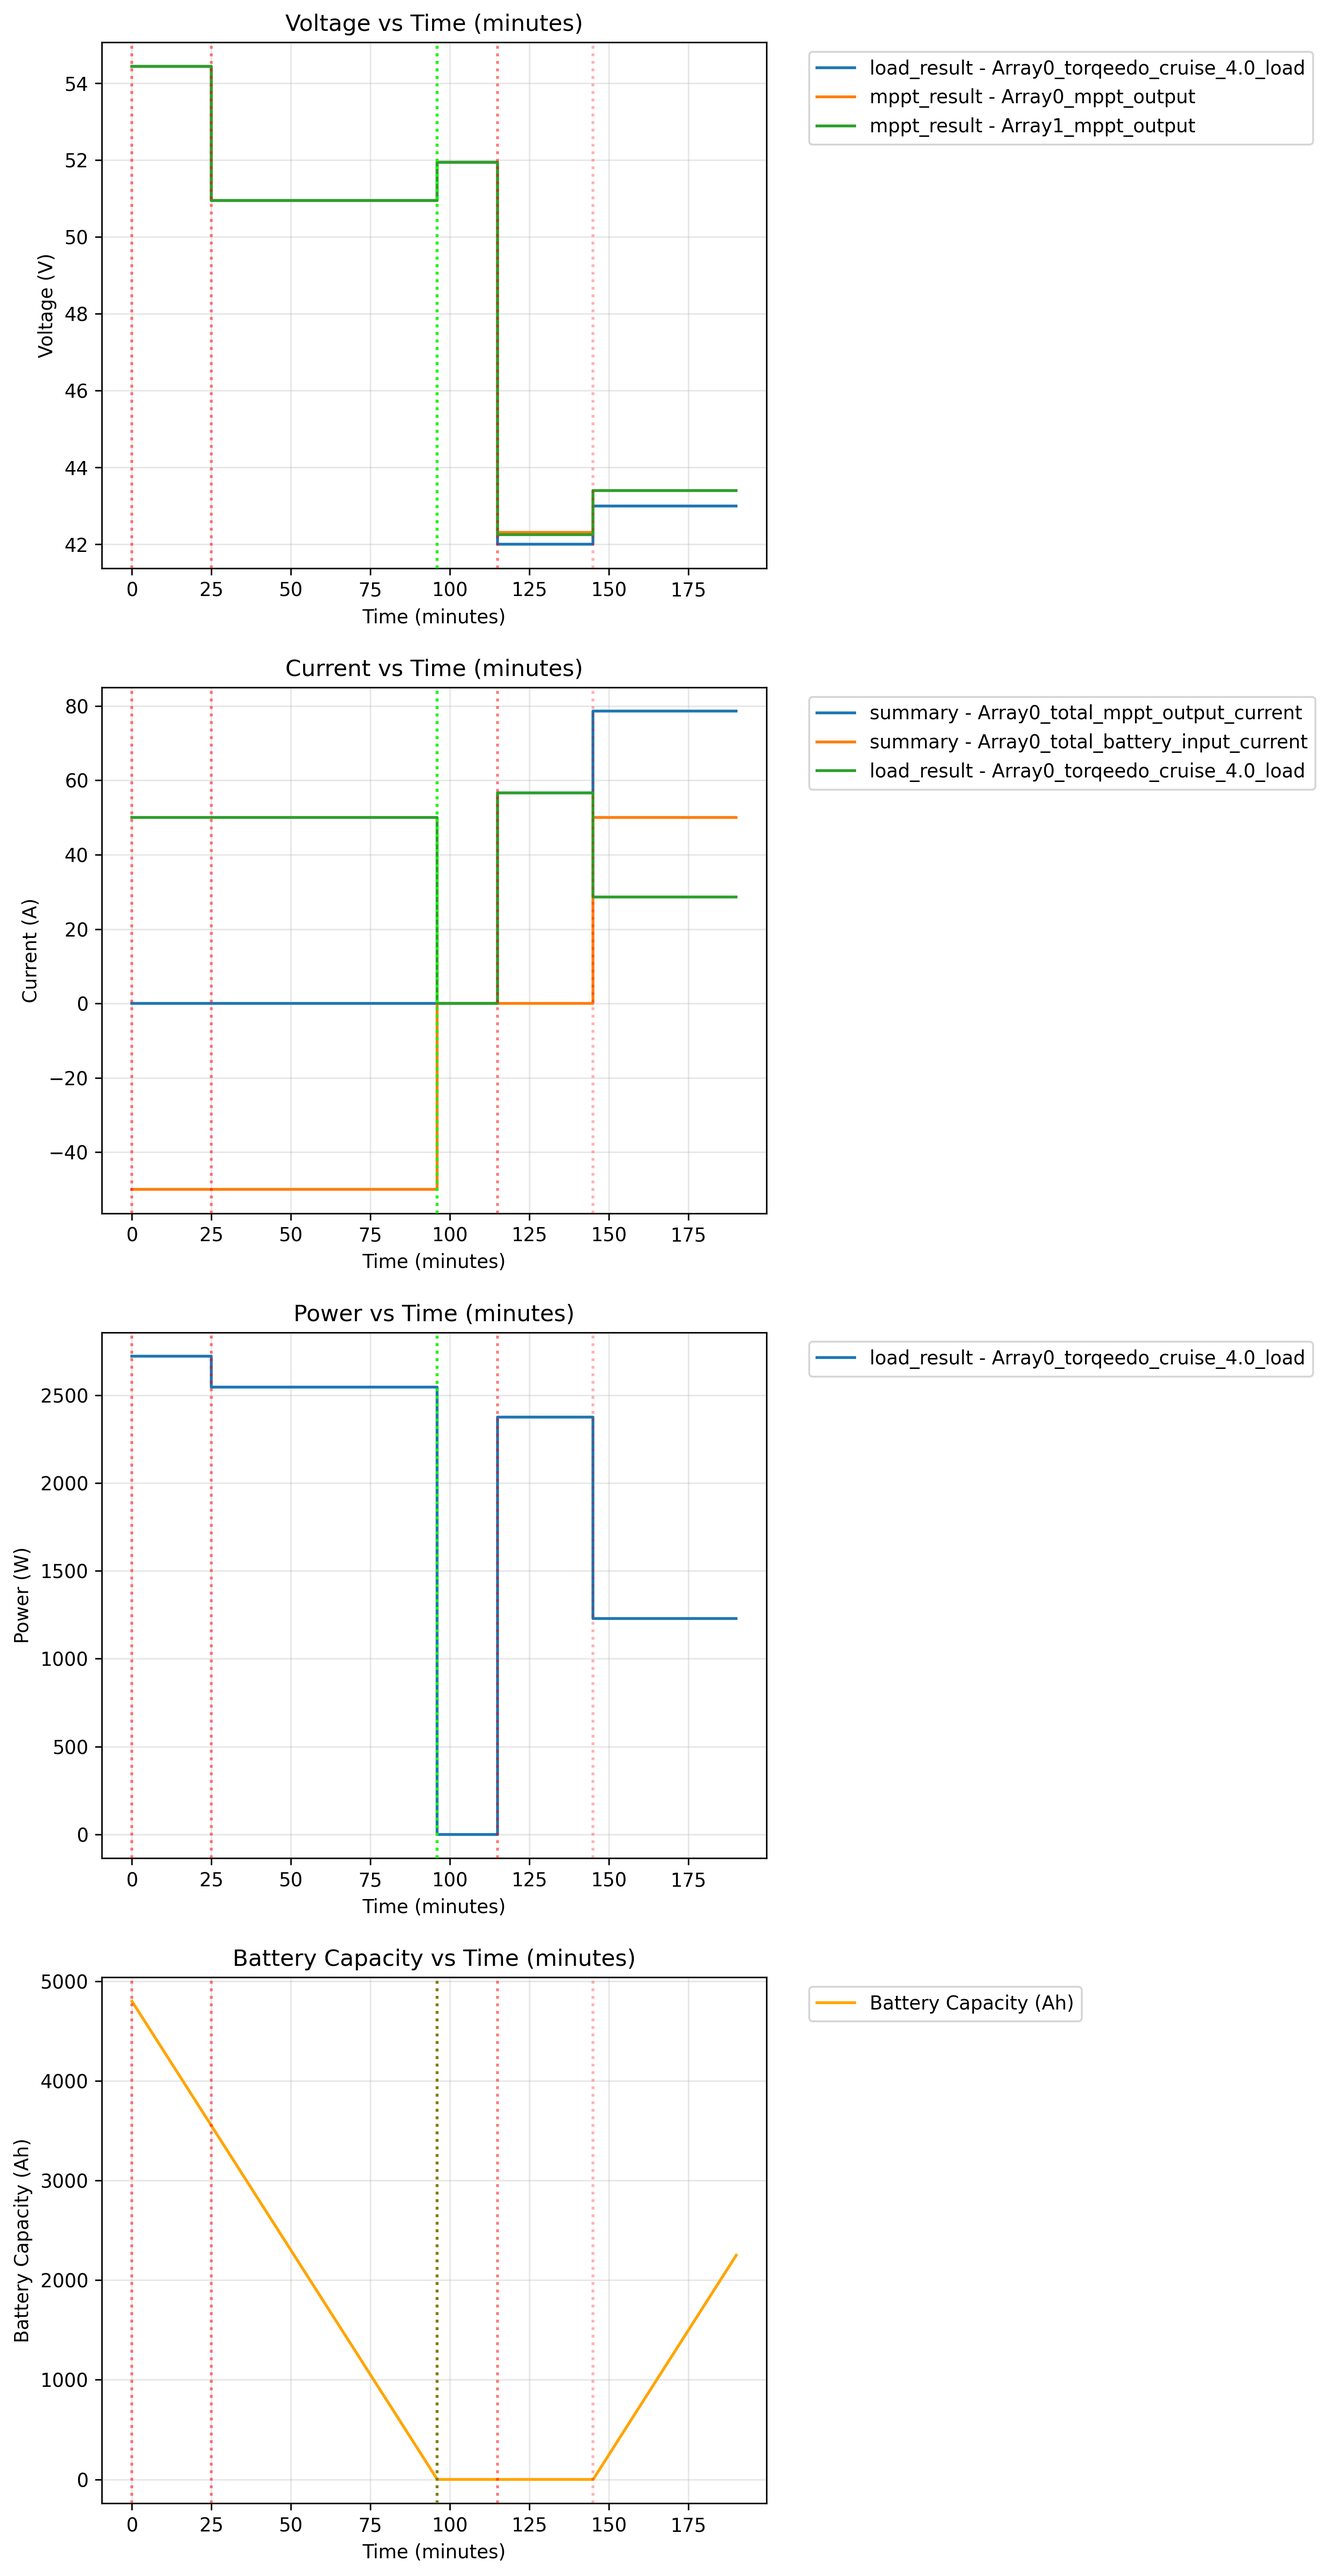
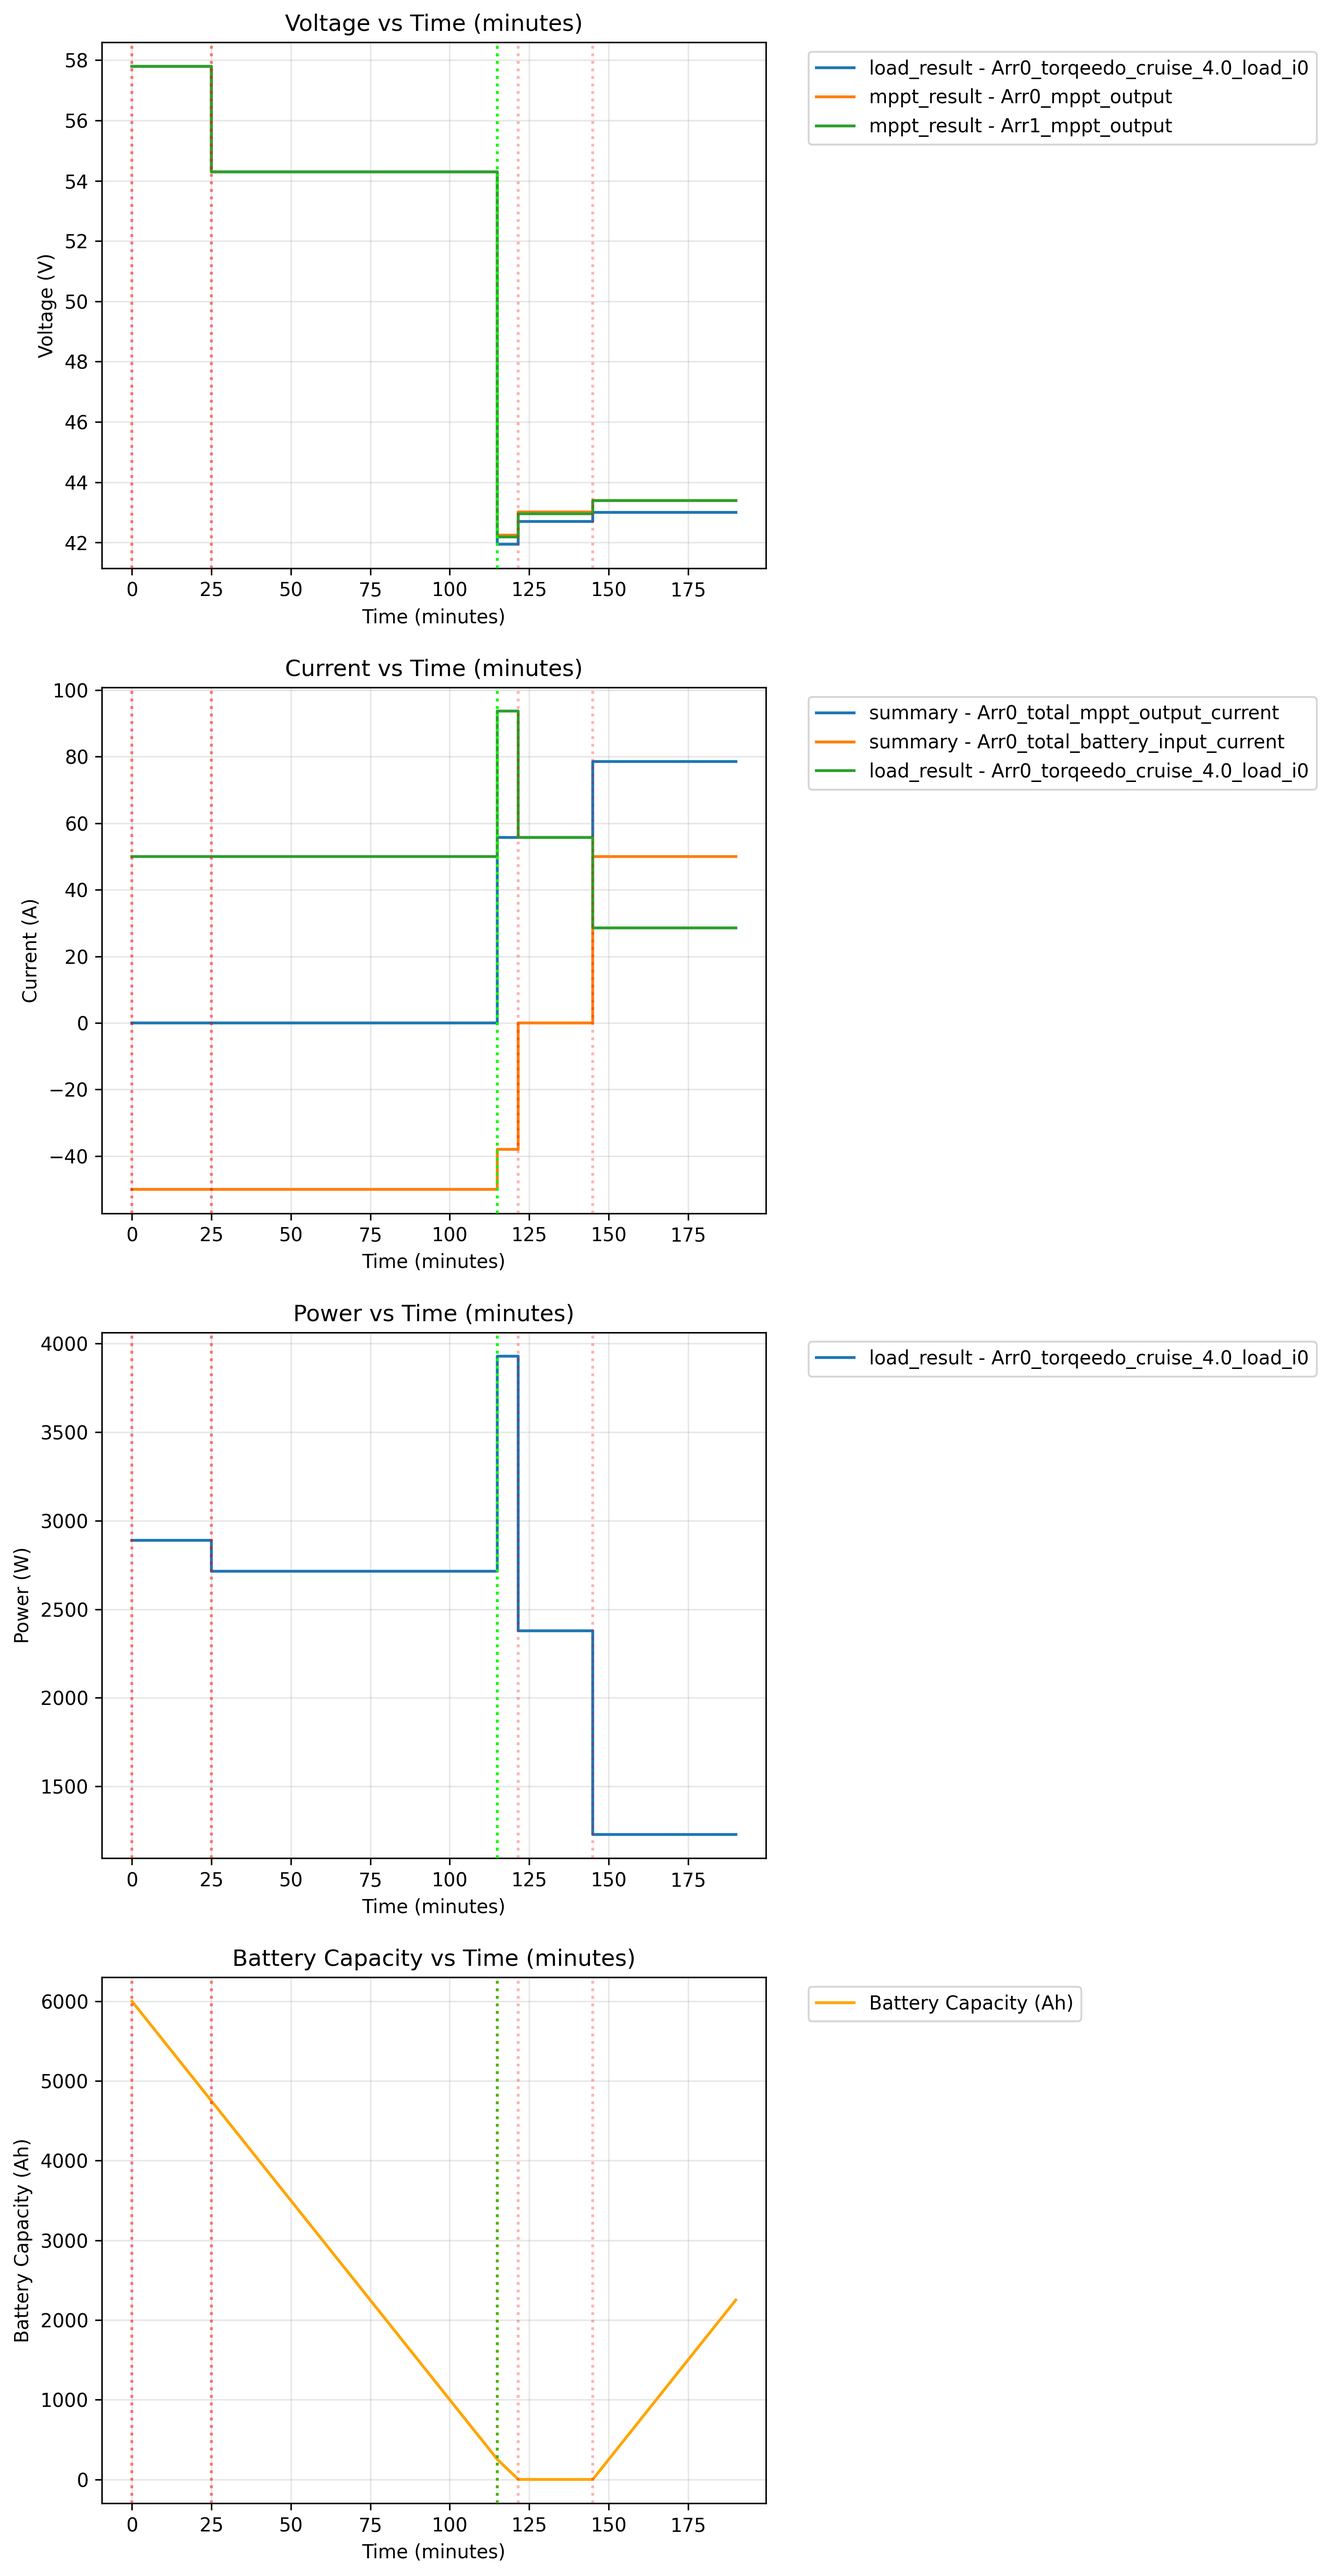
Refactor component name

diff --git a/PySpice/parse_result.py b/PySpice/parse_result.py
@@ -1,4 +1,5 @@
-from configurations.constants import BARE, BARF
+from configurations.constants import ARRAY_DECODER_PATTERN, BARE, BARF
+import re
 
 def parse_simulation_result(analysis, result, struc, SIMULATION_LOGGING=False, SHOW_PANELS=False):
     if analysis is None:
@@ -17,14 +18,15 @@ def parse_simulation_result(analysis, result, struc, SIMULATION_LOGGING=False, S
                 break
             if dic.get("keyword", 'None') in node_name:
                 matched = True
-                if ":" in node_name and node_name[0:node_name.index(":")].isdigit():
-                    prefix = int(node_name[0:node_name.index(":")])
-                    if prefix + 1 > len(dic["data"]):
-                        dic["data"].extend(eval(struc) for _ in range(prefix - len(dic["data"]) + 1))
+                matches = dict(re.findall(ARRAY_DECODER_PATTERN, node_name))
+                if matches.get('arr') is not None:
+                    arr_no = int(matches['arr'])
+                    if arr_no + 1 > len(dic["data"]):
+                        dic["data"].extend(eval(struc) for _ in range(arr_no - len(dic["data"]) + 1))
                         dic["array_count"] = len(dic["data"])
 
-                    dic["data"][prefix]["voltage"][node_name.replace(f"{prefix}:", "")] = float(node.as_ndarray()[0])
-                    dic["data"][prefix]["array_index"] = prefix
+                    dic["data"][arr_no]["voltage"][node_name.replace(f"arr{arr_no}_", "")] = float(node.as_ndarray()[0])
+                    dic["data"][arr_no]["array_index"] = arr_no
                 else:
                     if len(dic["data"]) == 0:
                         dic["data"].append(eval(struc))
@@ -48,15 +50,16 @@ def parse_simulation_result(analysis, result, struc, SIMULATION_LOGGING=False, S
             if dic.get("keyword", 'None') in branch_name:
                 matched = True
                 
-                if ":" in branch_name and branch_name[0:branch_name.index(":")].isdigit():
-                    prefix = int(branch_name[0:branch_name.index(":")])
+                matches = dict(re.findall(ARRAY_DECODER_PATTERN, branch_name))
+                if matches.get('arr') is not None:
+                    arr_no = int(matches['arr'])
                     # Add to data list at index i of i:name
-                    if prefix + 1 > len(dic["data"]):
-                        dic["data"].extend(eval(struc) for _ in range(prefix - len(dic["data"]) + 1))
+                    if arr_no + 1 > len(dic["data"]):
+                        dic["data"].extend(eval(struc) for _ in range(arr_no - len(dic["data"]) + 1))
                         dic["array_count"] = len(dic["data"])
                         
-                    dic["data"][prefix]["current"][branch_name.replace(f"{prefix}:", "")] = float(branch.as_ndarray()[0])
-                    dic["data"][prefix]["array_index"] = prefix
+                    dic["data"][arr_no]["current"][branch_name.replace(f"arr{arr_no}_", "")] = float(branch.as_ndarray()[0])
+                    dic["data"][arr_no]["array_index"] = arr_no
                 else:
                     if len(dic["data"]) == 0:
                         dic["data"].append(eval(struc))

diff --git a/PySpice/components/solar_panel_array.py b/PySpice/components/solar_panel_array.py
@@ -18,7 +18,7 @@ class Solar_Array:
         for p in range(self.PANEL_IN_PARALLEL):
             panel_row = []
             for s in range(self.PANEL_IN_SERIES):
-                panel_name = f"{array_number}:{p}|{s}|panel"
+                panel_name = f"arr{array_number}_p{p}_{s}_panel"
                 panel_row.append(panel_name)
                 
                 panel_pos = f"{panel_name}_positive"
@@ -31,7 +31,7 @@ class Solar_Array:
                 self.circuit.R(f"{panel_name}_leak_to_gnd", panel_neg, self.circuit.gnd, GROUNDING_RESISTANCE)
 
                 if s != 0:
-                    prev_panel_name = f"{array_number}:{p}|{s-1}|panel"
+                    prev_panel_name = f"arr{array_number}_p{p}_s{s-1}_panel"
                     # Internal resistance
                     self.circuit.R(f"{panel_name}_internal", panel_neg, f"{prev_panel_name}_positive", self.PANEL_INTERNAL_R)
 
@@ -40,15 +40,15 @@ class Solar_Array:
         for index, row in enumerate(self.components["panel"]):
             solar_row_end = row[-1]
             positive_node = f"{solar_row_end}_positive"
-            panel_wire = f"{array_number}:panel_wire|{index}"
-            self.circuit.R(panel_wire, positive_node, f"{array_number}:solar_array_output", WIRE_RESISTANCE)
+            panel_wire = f"arr{array_number}_panel_wire_{index}"
+            self.circuit.R(panel_wire, positive_node, f"arr{array_number}_solar_array_output", WIRE_RESISTANCE)
             self.components["wire"].append(panel_wire)
             # Small resistance to model wiring losses
         
-        self.terminal = f"{array_number}:solar_array_output_measured"
+        self.terminal = f"arr{array_number}_solar_array_output_measured"
         
-        self.circuit.V(f"{array_number}:solar_array_output", 
-                       f"{array_number}:solar_array_output",
+        self.circuit.V(f"arr{array_number}_solar_array_output", 
+                       f"arr{array_number}_solar_array_output",
                        f"{self.terminal}", 
                        GROUNDING_RESISTANCE)
         

diff --git a/PySpice/components/battery_array.py b/PySpice/components/battery_array.py
@@ -11,7 +11,7 @@ class Battery_Array:
             self.BATTERY_VOLTAGE = self.__estimate_battery_voltage(self.SOC, kwargs.get("min_voltage"), kwargs.get("max_voltage"))
         else:
             self.BATTERY_VOLTAGE = kwargs.get("battery_voltage")
-        print("Estimated Battery Voltage:", self.BATTERY_VOLTAGE, "SOC:", self.SOC)
+        #print("Estimated Battery Voltage:", self.BATTERY_VOLTAGE, "SOC:", self.SOC)
             
         self.BATTERY_MAX_CHARGE_CURRENT = kwargs.get("max_charge_current")
         self.BATTERY_MAX_DISCHARGE_CURRENT = kwargs.get("max_discharge_current")
@@ -24,7 +24,7 @@ class Battery_Array:
         for p in range(self.BATTERY_IN_PARALLEL):
             battery_row = []
             for s in range(self.BATTERY_IN_SERIES):
-                battery_name = f"{p}|{s}|battery"
+                battery_name = f"p{p}_s{s}_battery"
                 battery_row.append(battery_name)
                 
                 battery_pos = f"{battery_name}_positive"
@@ -34,7 +34,7 @@ class Battery_Array:
                 if s == 0:
                     self.circuit.R(f"{battery_name}_grounding", battery_neg, self.circuit.gnd, GROUNDING_RESISTANCE)
                 else:
-                    prev_battery_name = f"{p}|{s-1}|battery"
+                    prev_battery_name = f"p{p}_s{s-1}_battery"
                     self.circuit.R(f"{battery_name}_internal", battery_neg, f"{prev_battery_name}_positive", WIRE_RESISTANCE)
                 
             self.components["battery"].append(battery_row)
@@ -42,7 +42,7 @@ class Battery_Array:
         for index, row in enumerate(self.components["battery"]):
             battery_row_end = row[-1]
             positive_node = f"{battery_row_end}_positive"
-            battery_wire = f"battery_wire|{index}"
+            battery_wire = f"battery_wire_{index}"
             self.circuit.R(battery_wire, positive_node, "battery_input_measured", WIRE_RESISTANCE)  
             self.components["wire"].append(battery_wire)
             

diff --git a/PySpice/components/mppt.py b/PySpice/components/mppt.py
@@ -26,22 +26,22 @@ class MPPT:
         MPPT_OUTPUT_CURRENT = MPPT_OUTPUT_POWER / self.MPPT_OUTPUT_VOLTAGE
 
         SOLAR_POWER_RAIL = solar_array.get_terminal()
-        self.circuit.R(f"{array_number}:mppt_input_load", 
+        self.circuit.R(f"arr{array_number}_mppt_input_load", 
                  f"{SOLAR_POWER_RAIL}", self.circuit.gnd, 
                  MPPT_INPUT_RESISTANCE)
 
         # Regulate output current to calculated amount
-        self.circuit.raw_spice += f"""B{array_number}:mppt_current_reg 0 {array_number}:mppt_output I = min({self.MPPT_MAX_OUTPUT_CURRENT}, {MPPT_OUTPUT_CURRENT})\n"""
+        self.circuit.raw_spice += f"""Barr{array_number}_mppt_current_reg 0 arr{array_number}_mppt_output I = min({self.MPPT_MAX_OUTPUT_CURRENT}, {MPPT_OUTPUT_CURRENT})\n"""
         
-        self.circuit.V(f"{array_number}:mppt_output", f"{array_number}:mppt_output", f"{array_number}:mppt_output_measured", GROUNDING_RESISTANCE)
+        self.circuit.V(f"arr{array_number}_mppt_output", f"arr{array_number}_mppt_output", f"arr{array_number}_mppt_output_measured", GROUNDING_RESISTANCE)
         
         self.terminal = "total_mppt_output"
         # Connect MPPT output to DC bus
-        self.circuit.R(f"{array_number}:mppt_out_wire", f"{array_number}:mppt_output_measured", self.terminal, WIRE_RESISTANCE)
+        self.circuit.R(f"arr{array_number}_mppt_out_wire", f"arr{array_number}_mppt_output_measured", self.terminal, WIRE_RESISTANCE)
         #dc_bus is shared positive node for battery and load
 
-        self.components["mppt"].append(f"{array_number}:mppt_current_reg")
-        self.components["wire"].append(f"{array_number}:mppt_out_wire")
+        self.components["mppt"].append(f"arr{array_number}_mppt_current_reg")
+        self.components["wire"].append(f"arr{array_number}_mppt_out_wire")
         if log:
             print(self.__str__(array_number, MPPT_INPUT_VOLTAGE, MPPT_MAX_INPUT_POWER, MPPT_OUTPUT_POWER, MPPT_OUTPUT_CURRENT))
             

diff --git a/PySpice/sweep_graph_generation.py b/PySpice/sweep_graph_generation.py
@@ -230,7 +230,7 @@ def extract_traces(results: list, category: str, data_type: str) -> Dict[str, Li
                     # Create trace name
                     trace_name = key
                     if 'array_index' in array_item:
-                        trace_name = f"Array{array_item['array_index']}_{key}"
+                        trace_name = f"Arr{array_item['array_index']}_{key}"
                     
                     # Initialize trace if needed
                     if trace_name not in traces:
@@ -266,7 +266,7 @@ def extract_power_traces(results: list, category: str) -> Dict[str, List[float]]
                     if c_key in currents:
                         trace_name = v_key
                         if 'array_index' in array_item:
-                            trace_name = f"Array{array_item['array_index']}_{v_key}"
+                            trace_name = f"Arr{array_item['array_index']}_{v_key}"
                         
                         if trace_name not in power_traces:
                             power_traces[trace_name] = []

diff --git a/PySpice/circuit_constructor.py b/PySpice/circuit_constructor.py
@@ -31,8 +31,10 @@ def build_circuit_from_json(circuit_config_loc: str, modifications: dict = {}):
     battery_array = input_data['battery_setup']
     battery_choice = battery_array['choice']
     battery_config = battery_array[battery_choice]
+    
     if modifications.get('max_discharge_current') is not None:
         battery_config['max_discharge_current'] = modifications['max_discharge_current']
+        
     if modifications.get('max_charge_current') is not None:
         battery_config['max_charge_current'] = modifications['max_charge_current']
     
@@ -78,7 +80,7 @@ def build_circuit_from_json(circuit_config_loc: str, modifications: dict = {}):
     for key in input_data["load_setup"].keys():
         if key == "description":
             continue
-        load_name = f"{index}:{key}_load"
+        load_name = f"{key}_load_i{index}"
         
         if modifications.get('throttle_setting') is not None:
             if type(modifications['throttle_setting']) == list:

diff --git a/PySpice/configurations/constants.py b/PySpice/configurations/constants.py
@@ -7,3 +7,6 @@ EPSILON = 1e-4
 MPPT_BATTERY_VOLTAGE_BUFFER     = 2.0
 VOLTAGE_MISMATCH_TOLERANCE      = 5.0
 POWER_MISMATCH_TOLERANCE_PERCENTAGE = 1.0
+
+# Use dictt(re.findall(...)) to decode arr1_s2_p4_... to {'arr': 1, 's': 2, 'p': 4}
+ARRAY_DECODER_PATTERN = r'(arr|s|p)(\d+)(?=_|\s|$)'
